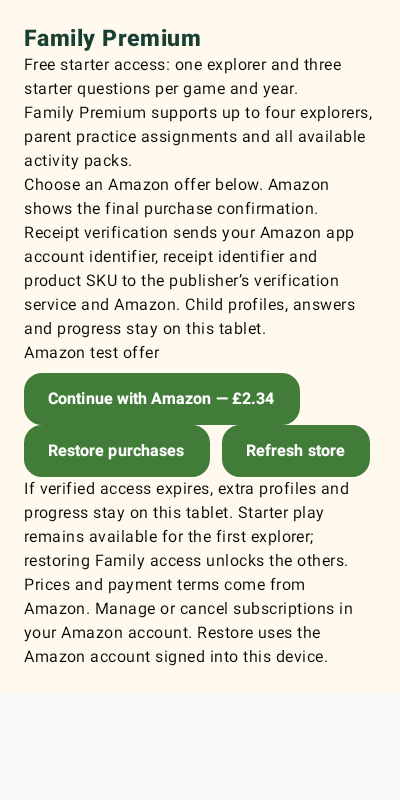
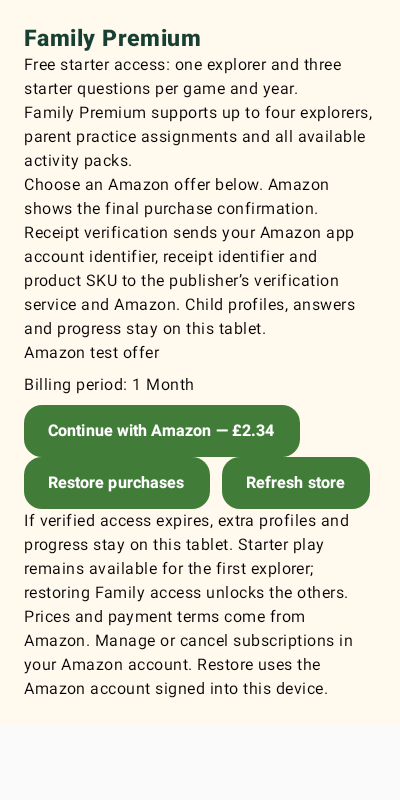
Show store billing periods and verify cancellation and account changes

Changed region(s): [[0.06, 0.4688, 0.93, 0.875]]

diff --git a/app/src/androidTestAmazonPreview/java/com/skillsprout/arcade/FirePurchaseTest.kt b/app/src/androidTestAmazonPreview/java/com/skillsprout/arcade/FirePurchaseTest.kt
@@ -42,7 +42,9 @@ class FirePurchaseTest {
         val device=UiDevice.getInstance(instrument)
         check(device.executeShellCommand("getprop debug.amazon.sandboxmode").trim()=="debug") {"Amazon App Tester sandbox must be explicitly enabled"}
         val stage=InstrumentationRegistry.getArguments().getString("stage") ?: "catalogue"
-        check(stage in setOf("catalogue","purchase","restore"))
+        check(stage in setOf("catalogue","purchase","restore","denied","lease"))
+        val caseName=InstrumentationRegistry.getArguments().getString("case") ?: stage
+        check(caseName in setOf("catalogue","purchase","restore","account-switch","cancelled","lease"))
         val idle=Configurator.getInstance().waitForIdleTimeout
         Configurator.getInstance().waitForIdleTimeout=0
         try{
@@ -60,6 +62,11 @@ class FirePurchaseTest {
             File(folder,"checkpoint.txt").writeText("premium open $stage")
             if(stage=="catalogue" || stage=="purchase"){
                 compose.waitUntil(45000) {compose.onAllNodesWithText("Continue with Amazon",substring=true).fetchSemanticsNodes().size==2}
+                if(stage=="catalogue"){
+                    assertEquals("Both subscription offers must show Amazon's billing period",2,compose.onAllNodesWithText("Billing period:",substring=true).fetchSemanticsNodes().size)
+                    val currency=InstrumentationRegistry.getArguments().getString("expectedCurrency").orEmpty()
+                    if(currency.isNotBlank())assertEquals("Both offers must use the selected store currency",2,compose.onAllNodesWithText("Continue with Amazon — $currency",substring=true).fetchSemanticsNodes().size)
+                }
             }
             if(stage=="purchase"){
                 check(!context.getSharedPreferences("verified_amazon_access",0).contains("payload")) {"Remove only this app's sandbox transaction and cached lease before a fresh purchase test"}
@@ -77,7 +84,7 @@ class FirePurchaseTest {
                 unlock();click("Premium")
                 waitFor("Your Amazon receipt has been verified.",120000)
             }
-            if(stage=="restore"){
+            if(stage=="restore" || stage=="lease"){
                 // Discard only this QA app's lease, so the button must obtain a new signed response.
                 context.getSharedPreferences("verified_amazon_access",0).edit().remove("payload").remove("signature").commit()
                 click("Restore purchases")
@@ -85,14 +92,37 @@ class FirePurchaseTest {
                 compose.waitUntil(120000) {context.getSharedPreferences("verified_amazon_access",0).contains("payload")}
                 waitFor("Your Amazon receipt has been verified.",120000)
             }
+            if(stage=="denied"){
+                click("Restore purchases")
+                waitFor("Free starter access")
+                compose.waitUntil(45000) {compose.onAllNodesWithText("Continue with Amazon",substring=true).fetchSemanticsNodes().size==2}
+                // Observe denial after asynchronous SDK responses, not only initial loading UI.
+                repeat(10){Thread.sleep(1000);assertFalse("Another account or cancelled subscription must not unlock Family",present("Your Amazon receipt has been verified."))}
+            }
             val verified=present("Your Amazon receipt has been verified.")
-            if(stage!="catalogue")assertTrue(verified)
+            if(stage=="denied")assertFalse(verified) else if(stage!="catalogue")assertTrue(verified)
             val cache=context.getSharedPreferences("verified_amazon_access",0)
             val report=JSONObject().put("stage",stage).put("deviceModel",android.os.Build.MODEL).put("androidApi",android.os.Build.VERSION.SDK_INT)
                 .put("sandbox",true).put("parentScreenCaptureProtected",secure).put("verified",verified)
                 .put("signedAccessSaved",cache.contains("payload") && cache.contains("signature"))
                 .put("offerCount",compose.onAllNodesWithText("Continue with Amazon",substring=true).fetchSemanticsNodes().size)
-            File(folder,"$stage.json").writeText(report.toString(2))
+            if(stage=="lease"){
+                val raw=android.util.Base64.decode(cache.getString("payload",null),android.util.Base64.URL_SAFE or android.util.Base64.NO_WRAP)
+                val payload=JSONObject(raw.toString(Charsets.UTF_8))
+                val key=java.security.KeyFactory.getInstance("EC").generatePublic(java.security.spec.X509EncodedKeySpec(context.assets.open("entitlement-public.der").use {it.readBytes()}))
+                var now=System.currentTimeMillis()
+                val actual=com.skillsprout.billing.VerifiedAccessCache(context,key,"sandbox",wallTime={now})
+                val account=payload.getString("accountHash")
+                assertNotNull("Real signed lease must validate locally without a verifier request",actual.read(account))
+                assertNull("Real signed lease cannot transfer to another account",actual.read("different-qa-account"))
+                now=payload.getLong("refreshBy")
+                assertNull("Signed deadline must lock offline access",actual.read(account))
+                now=payload.getLong("issuedAt")
+                assertNull("Rolling the clock back must not revive the expired lease",actual.read(account))
+                report.put("localSignatureValidated",true).put("wrongAccountDenied",true).put("offlineDeadlineEnforced",true).put("clockRollbackDenied",true)
+            }
+            report.put("case",caseName)
+            File(folder,"$caseName.json").writeText(report.toString(2))
         }finally{
             compose.activityRule.scenario.onActivity {it.window.clearFlags(WindowManager.LayoutParams.FLAG_KEEP_SCREEN_ON)}
             Configurator.getInstance().waitForIdleTimeout=idle

diff --git a/billing-amazon/src/main/java/com/skillsprout/billing/AmazonBilling.kt b/billing-amazon/src/main/java/com/skillsprout/billing/AmazonBilling.kt
@@ -14,7 +14,7 @@ import java.security.PublicKey
 import java.security.Signature
 
 /** Not linked into the offline development APK. No credentials or product prices in source. */
-data class StoreProduct(val sku:String,val title:String,val price:String,val description:String="")
+data class StoreProduct(val sku:String,val title:String,val price:String,val description:String="",val subscriptionPeriod:String="")
 data class SignedAccess(val payloadBase64:String,val signatureBase64:String)
 data class Access(val accountHash:String,val sku:String,val receiptId:String,val expiresAt:Long,val refreshBy:Long,val issuedAt:Long)
 class ReceiptInactiveException:Exception("Receipt is inactive")
@@ -91,7 +91,7 @@ class AmazonBilling(
     override fun onProductDataResponse(r:ProductDataResponse) {
         if(r.requestId!=productRequest) return
         if(r.requestStatus==ProductDataResponse.RequestStatus.SUCCESSFUL) {
-            productsState.value=r.productData.values.filter {catalog.mayPurchase(it.sku) && !it.price.isNullOrBlank()}.map {StoreProduct(it.sku,it.title,it.price,it.description)}
+            productsState.value=r.productData.values.filter {catalog.mayPurchase(it.sku) && !it.price.isNullOrBlank()}.map {StoreProduct(it.sku,it.title,it.price,it.description,it.subscriptionPeriod.orEmpty())}
             messageState.value=if(productsState.value.isEmpty()) "No store products available" else "Store prices loaded"
         } else {productsState.value=emptyList();messageState.value="Store unavailable. Please try again later."}
     }

diff --git a/app/src/test/java/com/skillsprout/arcade/PlayableScreensTest.kt b/app/src/test/java/com/skillsprout/arcade/PlayableScreensTest.kt
@@ -96,7 +96,7 @@ abstract class PlayableScreensTest {
     }
     @Test fun parentPurchasesDisplayOnlyStorePricesAndRouteRestore() {
         var purchased="";var restored=0
-        val storeState=PurchaseState(true,listOf(FamilyOffer("actual-test-sku","Amazon test offer","£2.34")),status=PurchaseStatus.READY)
+        val storeState=PurchaseState(true,listOf(FamilyOffer("actual-test-sku","Amazon test offer","£2.34",subscriptionPeriod="1 Month")),status=PurchaseStatus.READY)
         val gateway=object:PurchaseGateway {
             override val state=MutableStateFlow(storeState)
             override fun resume() {};override fun checkAccess() {};override fun close() {}
@@ -104,6 +104,7 @@ abstract class PlayableScreensTest {
             override fun restore() {restored++}
         }
         compose.setContent {MaterialTheme {Surface(color=Cream) {Column(Modifier.verticalScroll(rememberScrollState()).padding(24.dp)) {FamilyPurchases(storeState,FamilyAccess(false,0,1000),gateway)}}}}
+        compose.onNodeWithText("Billing period: 1 Month").assertExists()
         compose.onNodeWithText("Continue with Amazon — £2.34").performScrollTo().performClick();assertEquals("actual-test-sku",purchased)
         compose.onNodeWithText("Restore purchases").performScrollTo().performClick();assertEquals(1,restored)
         screenshot("11-parent-purchases")

diff --git a/app/src/amazon/java/com/skillsprout/arcade/PurchaseFactory.kt b/app/src/amazon/java/com/skillsprout/arcade/PurchaseFactory.kt
@@ -27,7 +27,7 @@ private class AmazonPurchases(private val billing:AmazonBilling):PurchaseGateway
     init {
         billing.initialise()
         scope.launch {combine(billing.products,billing.access,billing.message) {products,access,message->
-            PurchaseState(true,products.map {FamilyOffer(it.sku,it.title,it.price,it.description)},access?.let {minOf(it.expiresAt,it.refreshBy)} ?: 0,
+            PurchaseState(true,products.map {FamilyOffer(it.sku,it.title,it.price,it.description,it.subscriptionPeriod)},access?.let {minOf(it.expiresAt,it.refreshBy)} ?: 0,
                 message=="Waiting for Amazon",when {
                     access!=null->PurchaseStatus.VERIFIED
                     message=="Waiting for Amazon" || message.contains("pending",true) || message.contains("could not",true) || message.contains("unavailable",true) || message.contains("not completed",true) || message.contains("changed",true)->PurchaseStatus.PENDING

diff --git a/app/src/main/java/com/skillsprout/arcade/FamilyAccess.kt b/app/src/main/java/com/skillsprout/arcade/FamilyAccess.kt
@@ -4,7 +4,7 @@ import android.content.Context
 import kotlinx.coroutines.flow.MutableStateFlow
 import kotlinx.coroutines.flow.StateFlow
 
-data class FamilyOffer(val sku:String,val title:String,val price:String,val description:String="")
+data class FamilyOffer(val sku:String,val title:String,val price:String,val description:String="",val subscriptionPeriod:String="")
 data class PurchaseState(val configured:Boolean=false,val offers:List<FamilyOffer> = emptyList(),val verifiedUntil:Long=0,val busy:Boolean=false,val status:PurchaseStatus=PurchaseStatus.UNAVAILABLE)
 enum class PurchaseStatus { UNAVAILABLE, LOADING, READY, VERIFIED, PENDING }
 interface PurchaseGateway {

diff --git a/app/src/main/java/com/skillsprout/arcade/FamilyPurchases.kt b/app/src/main/java/com/skillsprout/arcade/FamilyPurchases.kt
@@ -23,6 +23,7 @@ import androidx.compose.ui.unit.dp
         if(!access.premium) state.offers.forEach {offer->
             Column(verticalArrangement=Arrangement.spacedBy(8.dp)) {
                 Text(offer.title)
+                if(offer.subscriptionPeriod.isNotBlank()) Text(stringResource(R.string.purchase_period,offer.subscriptionPeriod))
                 if(offer.description.isNotBlank()) Text(offer.description)
                 Action(stringResource(R.string.purchase_offer,offer.price),enabled=!state.busy) {gateway.purchase(offer.sku)}
             }

diff --git a/docs/RELEASE-BLOCKERS.md b/docs/RELEASE-BLOCKERS.md
@@ -5,7 +5,7 @@ This build is not ready to submit or sell. A compiled debug APK and passing auto
 | Gate | Evidence required |
 |---|---|
 | Educational content | Review 444 development items, including the new older-year maths, six additional passages, revised spelling clues and acyclic prerequisite metadata. A complete approved curriculum progression, further Year 5–6 depth, visual shape/sorting and phonics/dictation remain incomplete. Store teacher approval only with actual reviewer identity, qualification, timestamp, pack digest and evidence. |
-| Amazon integration | The publisher console draft exists. The isolated adapter now has an HTTPS verifier client, environment/account-bound signed cache and tests; `billing-service` implements RVS verification and bounded signed leases. The separate Amazon app variants now consume the adapter through parent purchase/restore UI and enforce access limits. Authentication PEM, actual SKUs and separate sandbox/production Workers are configured. Physical App Tester catalogue, fresh purchase and cache-cleared signed restore pass on KFTRWI/API 28; cancellation, expiry, account switching, offline recovery and live-store candidate validation remain pending; see `AMAZON-INTEGRATION.md`. The offline build remains separate. |
+| Amazon integration | The publisher console draft exists. The isolated adapter now has an HTTPS verifier client, environment/account-bound signed cache and tests; `billing-service` implements RVS verification and bounded signed leases. The separate Amazon app variants now consume the adapter through parent purchase/restore UI and enforce access limits. Authentication PEM, actual SKUs and separate sandbox/production Workers are configured. Physical App Tester catalogue, fresh purchase and cache-cleared signed restore pass on KFTRWI/API 28; physical App Tester cancellation, account switching and local signed-lease expiry/clock-rollback checks also pass. Full offline outage/recovery and live-store candidate validation remain pending; see `AMAZON-INTEGRATION.md`. The offline build remains separate. |
 | Monetisation access policy | Starter limits (one persistent primary profile, three bundled questions per game/year, no parent assignments) and verified Family enforcement are implemented in Amazon variants. Offline debug retains explicit development access. Validate the policy against configured live products. No price or seven-day trial claim until store configuration supports it. |
 | Fire compatibility | Physical 7–10-inch Fire devices and supported Fire OS versions; missing TTS engine; low-memory/performance/battery; keyboard, rotation, parent gate, app restarts, process death, reboot and time tampering. A KFTRWI Fire tablet (Android 9/API 28) is connected and has begun sandbox purchasing QA. This is one device, not the complete compatibility matrix. |
 | Accessibility | Narration volume/preview, missing-voice feedback and wrapping compact controls are implemented. TalkBack exploration, focus order, hardware keyboard, large-font/contrast review of every state and physical-device validation remain pending. Native controls have 48dp+ targets; this is not a complete accessibility audit. |
@@ -24,3 +24,8 @@ python tools/review_content.py release-check
 ```
 
 It must fail while activities remain unapproved. There is no synthetic approval or production PIN bypass. Do not publish debug screenshots as proof of compatibility, or refer to the development library as complete, teacher-reviewed, fully localised or legally certified.
+
+
+The 21 October extended device results are in `release/fire-billing-qa-extended.json`. The parent purchase UI now displays Amazon-provided subscription periods alongside store prices, with GBP and both period labels asserted in the UK sandbox marketplace. These checks do not approve the full billing or Fire matrix gate. The existing Amazon upload remains the signed code-4 review variant with payments disabled; a production binary cannot be built while the evidence gate fails.
+
+To finish production approval, provide a real qualified teacher review for the current 444-item pack, complete the remaining physical/accessibility and live-store candidate checks, review the publisher privacy/child-directed declarations and brand, confirm secure signing-key backup, and complete the released-language review. Evidence must identify the reviewer, date, exact artifact and SHA-256. Signing a review APK or passing App Tester does not supply those reviews.

diff --git a/docs/FIRE-BILLING-TESTING.md b/docs/FIRE-BILLING-TESTING.md
@@ -13,3 +13,6 @@ The restore stage removes only this QA app's signed access fields immediately be
 Afterward restore the original catalogue, sandbox property and any changed App Tester settings. Do not clear App Tester data or delete another app's transactions. `FLAG_SECURE` remains enabled in the parent area throughout these checks. The test temporarily keeps its own Activity awake and clears that flag when finished.
 
 Passing App Tester is sandbox evidence only. It does not certify the production signing candidate, real store charging, cancellation/expiry, account changes, offline recovery, accessibility or the full Fire device matrix.
+
+
+Extended stages: `denied` with `-e case account-switch` or `cancelled` requests restore and observes starter access for ten seconds after offers load. `lease` restores an actual signed lease and checks its signature, account binding, expiry and rollback protection locally using an injected clock; it does not change device time or disable Wi-Fi. `catalogue -e expectedCurrency £` also requires both billing-period labels and both pound-denominated offer buttons. Preserve and restore App Tester user/marketplace choices; cancellation applies only to the disposable SkillSprout test subscription.
